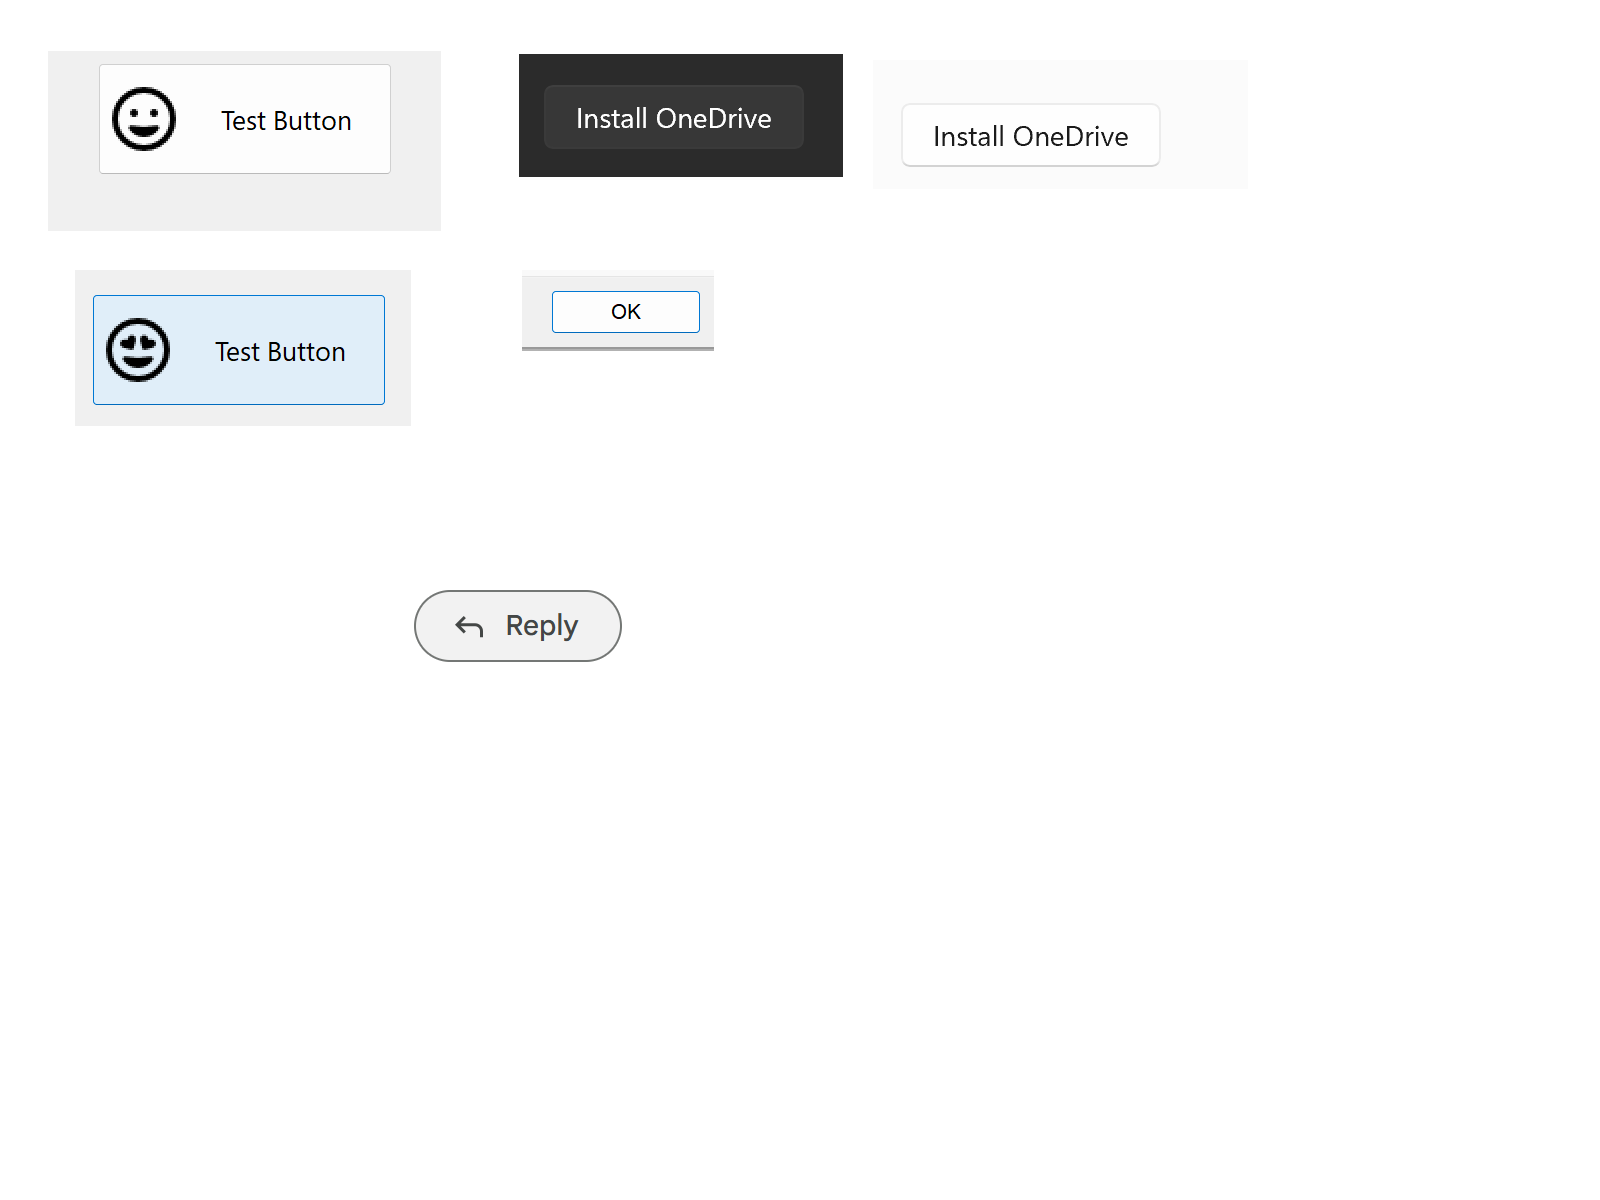
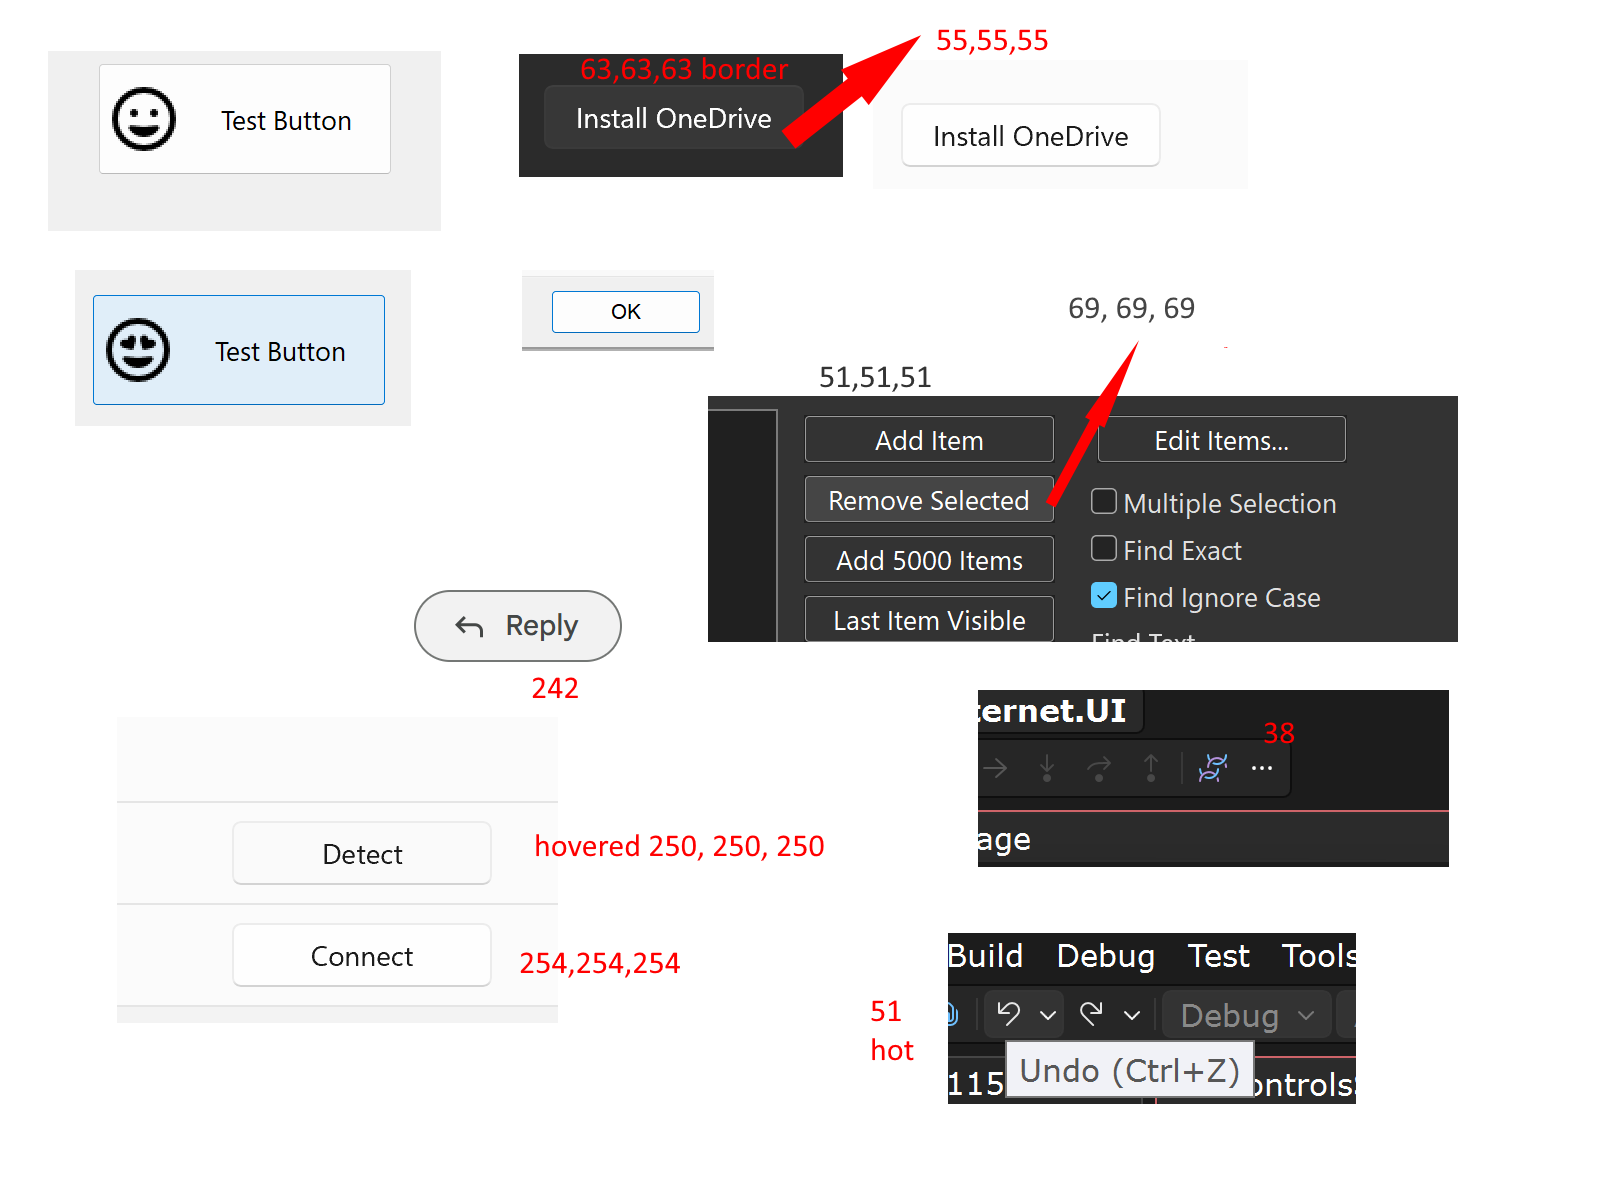
Minor changes

diff --git a/Source/Alternet.UI.Common/Controls/Abstract.Border/GenericBorder.cs b/Source/Alternet.UI.Common/Controls/Abstract.Border/GenericBorder.cs
@@ -74,7 +74,7 @@ namespace Alternet.UI
 
             set
             {
-                if(borderMargin == value)
+                if (borderMargin == value)
                     return;
                 borderMargin = value;
                 UpdatePadding();
@@ -190,8 +190,9 @@ namespace Alternet.UI
         public virtual bool AutoPadding { get; set; } = true;
 
         /// <inheritdoc/>
-        public override Color? BackgroundColor {
-            
+        public override Color? BackgroundColor
+        {
+
             get => base.BackgroundColor;
 
             set
@@ -552,7 +553,7 @@ namespace Alternet.UI
             }
             else
             {
-                if(Padding == NormalBorder.Width)
+                if (Padding == NormalBorder.Width)
                     Padding = 0;
             }
         }

diff --git a/Source/Samples/ControlsSampleDll/Pages/Buttons/ButtonPage.uixml.cs b/Source/Samples/ControlsSampleDll/Pages/Buttons/ButtonPage.uixml.cs
@@ -118,6 +118,9 @@ namespace ControlsSample
 
             button.GotFocus += (s, e) => App.Log("Button: GotFocus");
             button.LostFocus += (s, e) => App.Log("Button: LostFocus");
+
+            button.Borders?.Normal?.InnerBorders.Add(BorderSettings.DebugBorder);
+            button.Borders?.Normal?.SetInnerBorderVisible(true);
         }
 
         private void Button_KeyDown(object? sender, KeyEventArgs e)
